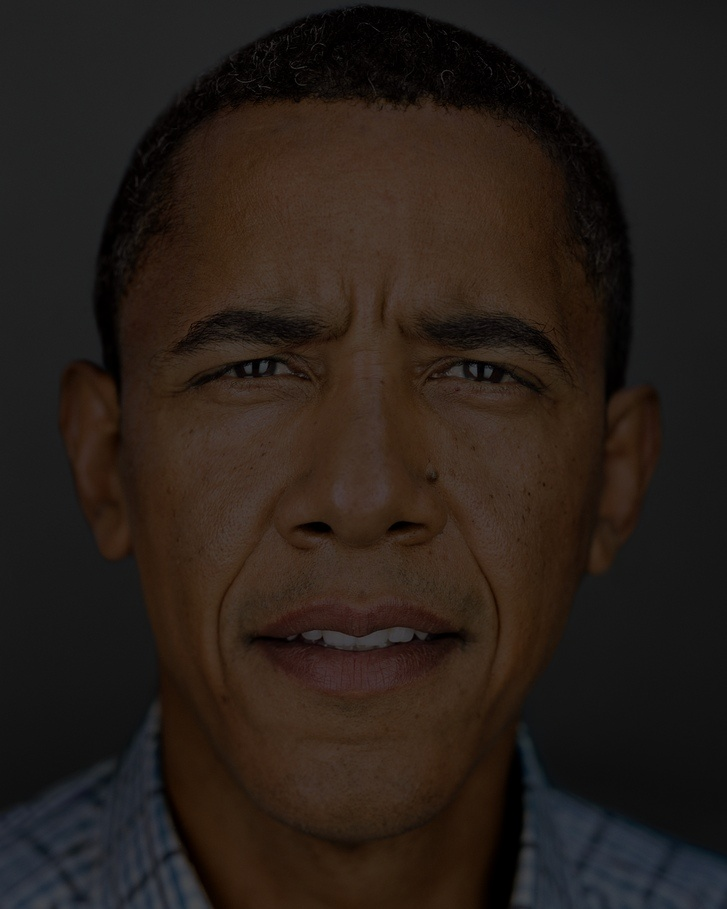
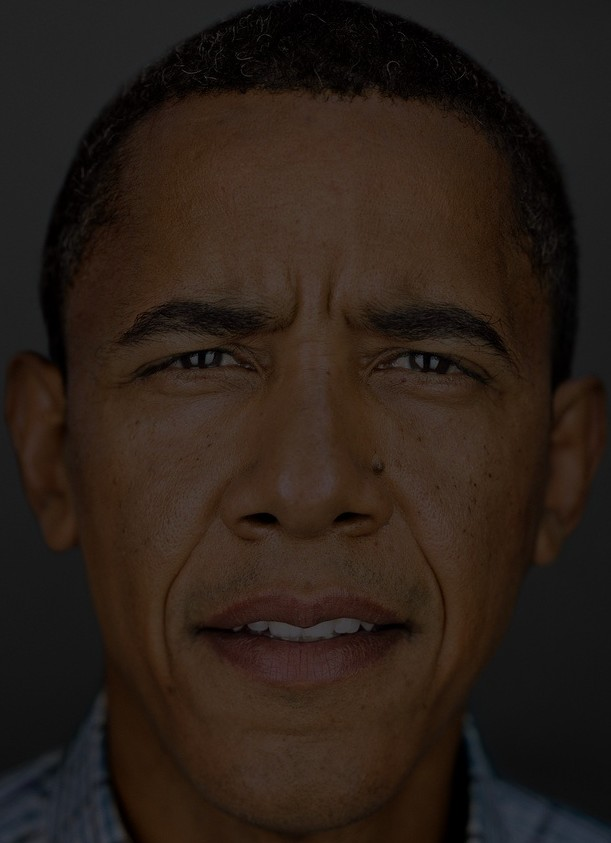
Test: update Unittests for realighting.

diff --git a/test/test_find_mapping.py b/test/test_find_mapping.py
@@ -1,26 +1,69 @@
 import cv2
 import numpy as np
-
-from utils.find_mapping import create_lighting_filter, apply_lighting_filter
+from utils.find_mapping import create_lighting_filter, apply_lighting_filter, apply_shadow_enhancement
 import unittest
 
 
 class MyTestCase(unittest.TestCase):
     def test_create_lighting_filter(self):
         refrence_image: np.ndarray = cv2.imread("/home/abolfazl/Documents/DPR/obama.jpg")
-        target_image: np.ndarray = cv2.imread("/home/abolfazl/Documents/DPR/candidiate_config/candidate1/result/rotate_light_04.jpg")
+        target_image: np.ndarray = cv2.imread("candidiate_config/candidate1/result/rotate_light_06.jpg")
         smooth_gain, b = create_lighting_filter(img_x=refrence_image, img_y=target_image)
+        cv2.imshow('Lighting Filter Map', smooth_gain)
+        cv2.waitKey(0)
+        cv2.destroyWindow("Lighting Filter Map")
+        print(50 * '=','Filter info', 50* '=')
+        print("reference image shape: ", refrence_image.shape)
+        print("target image shape: ", target_image.shape)
+        print("filter shape: ", smooth_gain.shape)
+        print("min value: ", smooth_gain.min())
+        print("max value: ", smooth_gain.max())
+
+    def test_apply_smooth_gain(self):
+        refrence_image: np.ndarray = cv2.imread("/home/abolfazl/Documents/DPR/obama.jpg")
+        target_image: np.ndarray = cv2.imread("candidiate_config/candidate1/result/rotate_light_06.jpg")
+        smooth_gain, _ = create_lighting_filter(img_x=refrence_image, img_y=target_image)
+        cv2.imshow('Lighting Filter Map', smooth_gain)
+        cv2.waitKey(0)
+        cv2.destroyWindow("Lighting Filter Map")
+        result = apply_lighting_filter(refrence_image, smooth_gain)
+        cv2.imshow('Result', result)
+        cv2.waitKey(0)
+        cv2.destroyWindow("Result")
+        cv2.imwrite(f"apply-gain.jpg", result)
+        
+    def test_shadow_enhancement(self):
+        shadow_strength=0.9
+        refrence_image: np.ndarray = cv2.imread("/home/abolfazl/Documents/DPR/obama.jpg")
+        target_image: np.ndarray = cv2.imread(
+            "candidiate_config/candidate1/result/rotate_light_06.jpg")
+        smooth_gain, lab_x = create_lighting_filter(img_x=refrence_image, img_y=target_image)
+        _, final_gain = apply_shadow_enhancement(lab_x, smooth_gain, shadow_strength=shadow_strength)
+
+        cv2.imshow('Lighting Filter Map', final_gain)
+        cv2.waitKey(0)
+        cv2.destroyWindow("Lighting Filter Map")
+        print(50 * '=', 'Filter info', 50 * '=')
+        print("reference image shape: ", refrence_image.shape)
+        print("target image shape: ", target_image.shape)
+        print("filter shape: ", final_gain.shape)
+        print("min value: ", final_gain.min())
+        print("max value: ", final_gain.max())
 
     def test_apply_lighting_filter(self):
+        shadow_strength=0.9
         refrence_image: np.ndarray = cv2.imread("/home/abolfazl/Documents/DPR/obama.jpg")
-        target_image: np.ndarray = cv2.imread("candidiate_config/candidate1/result/rotate_light_04.jpg")
-        smooth_gain, _ = create_lighting_filter(img_x=refrence_image, img_y=target_image)
-        result = apply_lighting_filter(refrence_image, smooth_gain)
-        filter_vis = cv2.normalize(smooth_gain, None, 0, 255, cv2.NORM_MINMAX).astype(np.uint8)
+        target_image: np.ndarray = cv2.imread("candidiate_config/candidate1/result/rotate_light_06.jpg")
+        smooth_gain, lab_x = create_lighting_filter(img_x=refrence_image, img_y=target_image)
+        _, final_gain = apply_shadow_enhancement(lab_x, smooth_gain, shadow_strength=shadow_strength)
+
+
+        result = apply_lighting_filter(target_image, final_gain)
+        filter_vis = cv2.normalize(final_gain, None, 0, 255, cv2.NORM_MINMAX).astype(np.uint8)
         cv2.imshow('Lighting Filter Map', filter_vis)
         cv2.waitKey(0)
 
-        cv2.imwrite("/home/abolfazl/Documents/DPR/res.jpg", result)
+        cv2.imwrite(f"/home/abolfazl/Documents/DPR/res_darker_{shadow_strength}.jpg", result)
         cv2.imshow("result_img", result)
         cv2.waitKey(0)
         cv2.destroyAllWindows()

diff --git a/utils/find_mapping.py b/utils/find_mapping.py
@@ -9,39 +9,45 @@ def create_lighting_filter(img_x: np.ndarray, img_y: np.ndarray, epsilon: float=
     lx = lab_x[:, :, 0]
     ly = lab_y[:, :, 0]
 
-
     gain_map = ly / (lx + epsilon)
 
-    # 3. کلیپ کردن برای جلوگیری از مقادیر غیرعادی
     gain_map = np.clip(gain_map, 0.1, 10.0)
-
-    # 4. صافسازی فیلتر (Smoothing)
-    # استفاده از GaussianBlur یا بهتر از آن GuidedFilter
-    # GuidedFilter باعث میشود فیلتر نوری دقیقاً با فرم صورت منطبق بماند
-
-    # پارامترها را بسته به رزولوشن تصویر تنظیم کنید
-    # برای یک تصویر 1080p، شعاع 50 تا 100 مناسب است
     radius = 100
-    eps = 0.1 * (255 ** 2)  # پارامتر نرمی برای Guided Filter
-
+    eps = 0.1 * (255 ** 2)
     smooth_gain = cv2.ximgproc.guidedFilter(guide=lx.astype(np.uint8),
                                             src=gain_map,
                                             radius=radius,
                                             eps=eps)
-
     return smooth_gain, lab_x
 
+def apply_shadow_enhancement(lab_x: np.ndarray, smooth_gain: np.ndarray, shadow_strength: float = 0.4):
+    
+    lx = lab_x[:, :, 0].astype(np.float32)
+
+    dark_weight = 1.0 - (lx / 255.0)
+
+    dark_weight = dark_weight ** 2.5
+
+    darkening_filter = 1.0 - shadow_strength * dark_weight
+
+    final_gain = smooth_gain * darkening_filter
+
+    new_l = lx * final_gain
+    new_l = np.clip(new_l, 0, 255)
+
+    result_lab = lab_x.copy()
+    result_lab[:, :, 0] = new_l
+
+    result_bgr = cv2.cvtColor(result_lab.astype(np.uint8), cv2.COLOR_LAB2BGR)
+    return result_bgr, final_gain
 
 def apply_lighting_filter(target_img: np.ndarray, gain_filter: np.ndarray):
-    # 1. تبدیل تصویر مقصد به LAB
+    
     lab = cv2.cvtColor(target_img, cv2.COLOR_BGR2LAB).astype(np.float32)
 
-    # 2. اعمال فیلتر روی کانال L
     lab[:, :, 0] = lab[:, :, 0] * gain_filter
-
-    # 3. محدود کردن مقادیر روشنایی به بازه استاندارد LAB (0 تا 100)
+    
     lab[:, :, 0] = np.clip(lab[:, :, 0], 0, 100)
 
-    # 4. تبدیل مجدد به BGR
     result = cv2.cvtColor(lab.astype(np.uint8), cv2.COLOR_LAB2BGR)
     return result

diff --git a/test/test_light_condition.py b/test/test_light_condition.py
@@ -14,8 +14,8 @@ class MyTestCase(unittest.TestCase):
     def test_network_512_demo(self):
         try:
             test_network_demo_512(model_folder="trained_model/",
-                                  lightFolder="candidiate_config/candidate3",
-                                  saveFolder="candidiate_config/candidate3/result",
+                                  lightFolder="candidiate_config/candidate1",
+                                  saveFolder="candidiate_config/candidate1/result",
                                   img="obama.jpg")
         except Exception as error:
             self.fail(f"test_network_demo_512 raised an exception: {error}")
